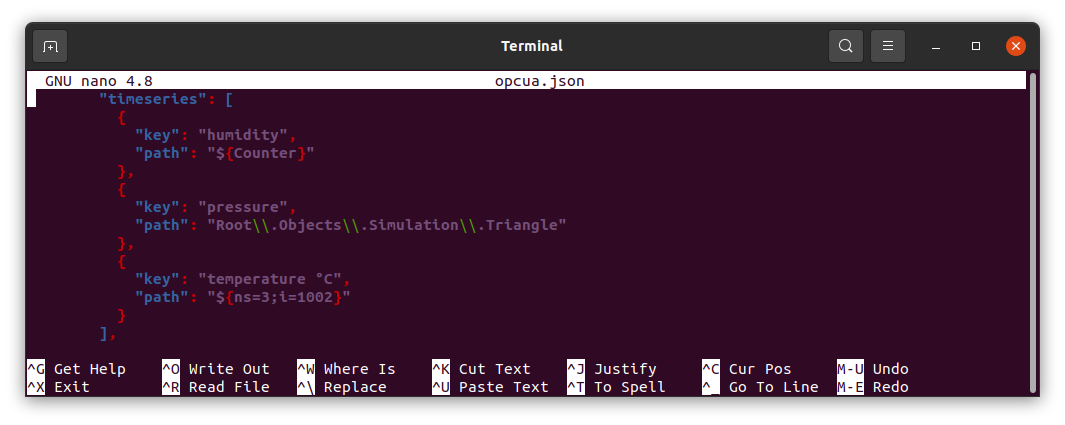
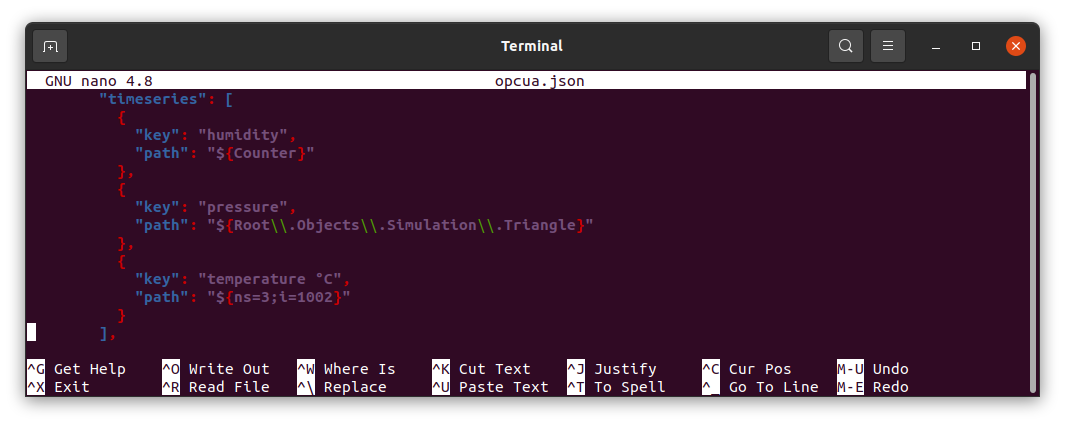
minor text edits

Changed region(s): [[0.1859, 0.52, 0.5577, 0.5506], [0.0, 0.7647, 0.031, 0.7953], [0.0, 0.2141, 0.031, 0.2447]]

diff --git a/docs/iot-gateway/config/opc-ua.md b/docs/iot-gateway/config/opc-ua.md
@@ -182,7 +182,7 @@ In this example, the **mapping** section would look like this:
 ![image](/images/gateway/opc-ua-configuration-2.png)
 {: refdef}
 
-After running **thingsboard gateway service**, you see the new device **Device OPC-UA** in your ThingsBoard instance.
+After running **ThingsBoard IoT gateway**, you see the new device **Device OPC-UA** in your ThingsBoard instance.
 
 {:refdef: style="text-align: left;"}
 ![image](/images/gateway/gateway-opc-ua-attributes-1.png)
@@ -243,7 +243,7 @@ In this example, the **attributes** section would look like this:
 ![image](/images/gateway/opc-ua-configuration-3.png)
 {: refdef}
 
-In the ThingsBoard instance, in the "Attributes" section, you must see the **attributes** in your device:
+You must see the attributes you sent to ThingsBoard in the **Attributes** section of your device.:
 
 {:refdef: style="text-align: left;"}
 ![image](/images/gateway/gateway-opc-ua-attributes-2.png)
@@ -295,7 +295,7 @@ In this example, the **timeseries** section would look like this:
           },
           {
             "key": "pressure",
-            "path": "Root\\.Objects\\.Simulation\\.Triangle"
+            "path": "${Root\\.Objects\\.Simulation\\.Triangle}"
           },
           {
             "key": "temperature °C",
@@ -308,7 +308,7 @@ In this example, the **timeseries** section would look like this:
 ![image](/images/gateway/opc-ua-configuration-4.png)
 {: refdef}
 
-In the ThingsBoard instance, you must see the **latest telemetry** in your device:
+You must see the telemetry you sent to ThingsBoard in the **Latest telemetry** section of your device:
 
 {:refdef: style="text-align: left;"}
 ![image](/images/gateway/gateway-opc-ua-attributes-3.png)
@@ -334,7 +334,7 @@ This part of configuration will look like:
         ]
 ```
 
-Also, every telemetry and attribute parameter has get and set RPC methods out of the box, so you don't need to configure
+Also, every telemetry and attribute parameter has **GET** and **SET** RPC methods out of the box, so you don't need to configure
 it manually.
 For example, if you have some attribute parameter:
 ```json
@@ -419,7 +419,7 @@ Our **attributes_updates** section would look like this:
 ![image](/images/gateway/gateway-opc-ua-attributes-updates-1.png)
 {: refdef}
 
-In the ThingsBoard instance, go to **"Shared attributes"** and create a new attribute for your device.
+Go to **"Shared attributes"** and create a new one for your device in the ThingsBoard instance.
 
 Specify the key name - deviceName, value type - String, string value - Device OPC-UA.
 
